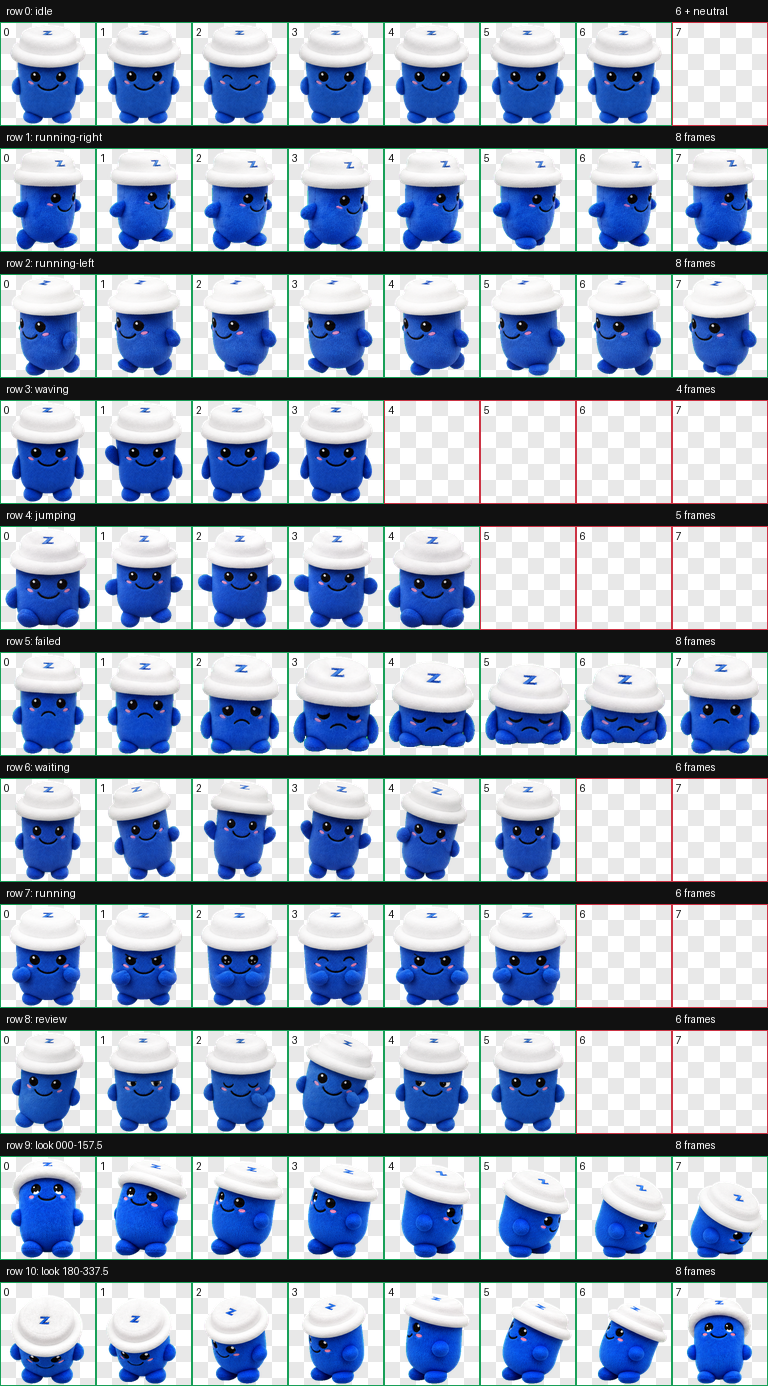
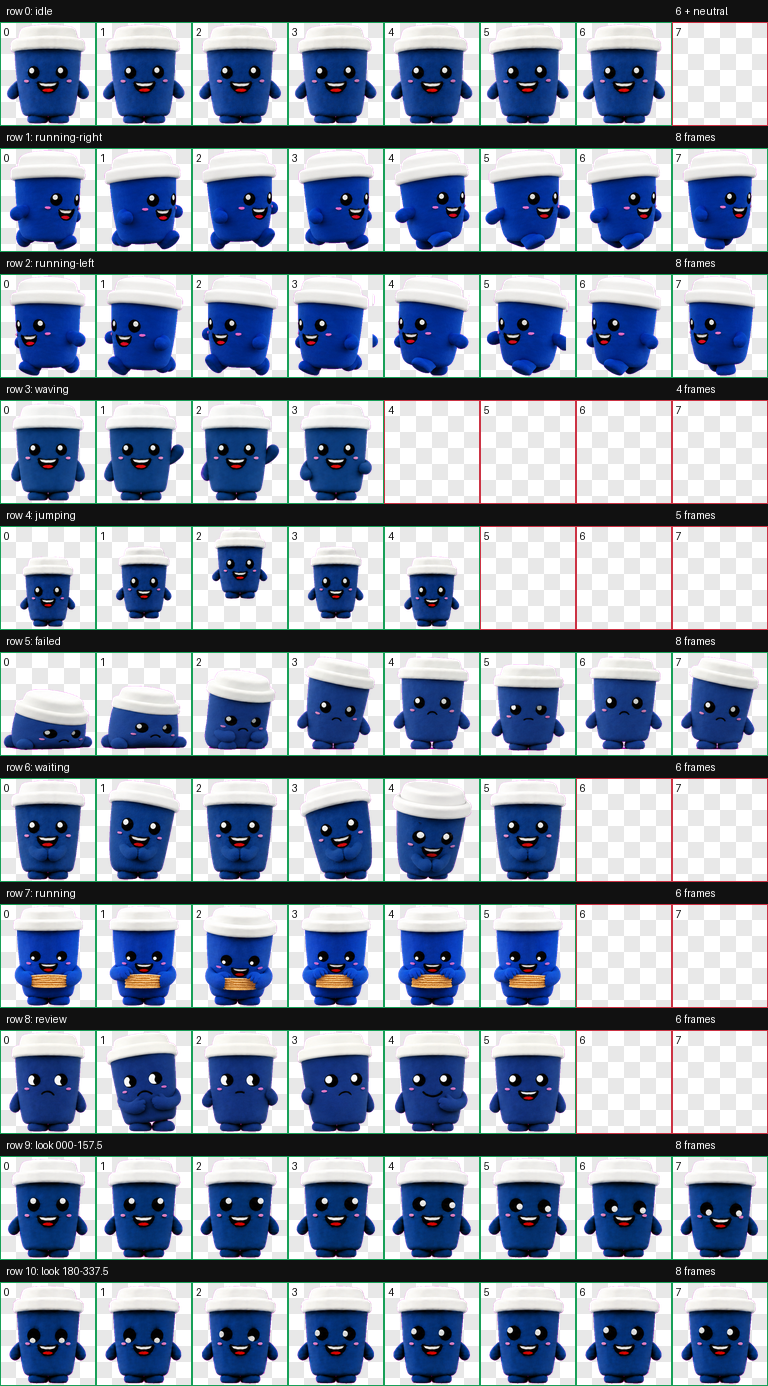
feat: refresh Blue Buddy mascot animations

diff --git a/README.md b/README.md
@@ -1,8 +1,10 @@
 # ZUS Blue Buddy for Codex
 
-An animated Codex pet based on the cheerful blue ZUS Buddy cup mascot. The pet includes all nine Codex activity animations and sixteen look directions.
+An animated Codex pet based on the compact ZUS Blue Buddy cup mascot, with its round edge-focused eyes, playful Mamee-style work gag, all nine Codex activity animations, and sixteen look directions.
 
 Maintained solely by [@HarryZus](https://github.com/HarryZus).
+
+![ZUS Blue Buddy front, side, and back turnaround](previews/turnaround.png)
 
 ![ZUS Blue Buddy animation contact sheet](previews/contact-sheet.png)
 
